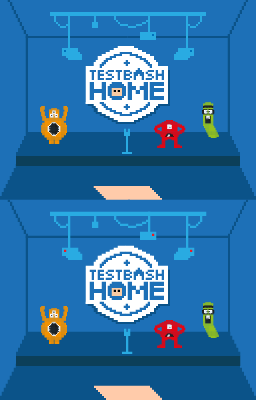
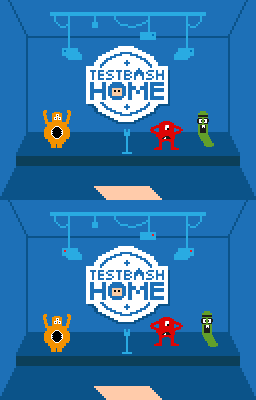
Updated images, positions and backgrounds

diff --git a/data.js b/data.js
@@ -16,7 +16,7 @@ module.exports.ROOMS = {
         frames: 2,
         frameDelay: 30,
         avatarScale: 3,
-        pageBg: "#29ABE2",
+        pageBg: "#235385",
         area: "tbh_venue_areas.png",
         tint: "#fdeac8",
         bubblesY: 44,
@@ -31,47 +31,17 @@ module.exports.ROOMS = {
         frames: 2,
         frameDelay: 30,
         avatarScale: 3,
-        pageBg: "#1566B0",
+        pageBg: "#235385",
         area: "tbh_lobby_areas.png",
         tint: "#fdeac8",
         bubblesY: 44,
         spawn: [14, 84, 119, 92],
         areaColors: {
             hff00ff: { cmd: "enter", room: "outside", label: "Go outside", point: [62, 90], enterPoint: [60, 84], obstacle: false },
-            h00ff00: { cmd: "enter", room: "auditorium", label: "Go to auditorium", point: [10, 85], enterPoint: [62, 91], obstacle: false },
-            h00ffff: { cmd: "enter", room: "club", label: "Go to The Club", point: [40, 74], enterPoint: [62, 91], obstacle: false },
-            hffff00: { cmd: "enter", room: "slack", label: "Go to MoT slack", point: [88, 70], enterPoint: [62, 91], obstacle: false }
-        }
-    },
-
-    auditorium: {
-        bg: "tbh_auditorium_bg.png",
-        frames: 2,
-        frameDelay: 30,
-        avatarScale: 3,
-        pageBg: "#1D70B7",
-        area: "tbh_auditorium_areas.png",
-        tint: "#fdeac8",
-        bubblesY: 44,
-        spawn: [14, 84, 119, 92],
-        areaColors: {
-            hff00ff: { cmd: "enter", room: "lobby", label: "Enter lobby", point: [62, 91], enterPoint: [10, 85], obstacle: false }
-        }
-    },
-
-    club: {
-        bg: "tbh_club_bg.png",
-        frames: 2,
-        frameDelay: 30,
-        avatarScale: 3,
-        pageBg: "#009245",
-        area: "tbh_club_areas.png",
-        tint: "#fdeac8",
-        bubblesY: 44,
-        spawn: [14, 84, 119, 92],
-        areaColors: {
-            hff00ff: { cmd: "enter", room: "lobby", label: "Enter TestBash Home", point: [62, 91], enterPoint: [42, 74], obstacle: false },
-            h00ff00: { cmd: "text", txt: "Share your thoughts on\nThe Ministry of Testing Club\nClick to open", align: "left", lines: 3, url: "https://club.ministryoftesting.com/", label: "Join the Club", point: [88, 78], obstacle: true }
+            h00ff00: { cmd: "enter", room: "slack", label: "Go to MoT Slack", point: [10, 85], enterPoint: [115, 91], obstacle: false },
+            h00ffff: { cmd: "enter", room: "auditorium", label: "Go to the Auditorium", point: [40, 74], enterPoint: [62, 91], obstacle: false },
+            hffff00: { cmd: "enter", room: "recordings", label: "Go to TestBash Home recordings", point: [88, 75], enterPoint: [78, 91], obstacle: false },
+            hff0000: { cmd: "enter", room: "club", label: "Go to The Club", point: [115, 85], enterPoint: [10, 91], obstacle: false }
         }
     },
 
@@ -80,104 +50,63 @@ module.exports.ROOMS = {
         frames: 2,
         frameDelay: 30,
         avatarScale: 3,
-        pageBg: "#93278F",
+        pageBg: "#69286E",
         area: "tbh_slack_areas.png",
         tint: "#fdeac8",
         bubblesY: 44,
         spawn: [14, 84, 119, 92],
         areaColors: {
-            hff00ff: { cmd: "enter", room: "lobby", label: "Enter TestBash Home", point: [62, 91], enterPoint: [88, 74], obstacle: false },
+            hff00ff: { cmd: "enter", room: "lobby", label: "Enter TestBash Home", point: [115, 91], enterPoint: [10, 85], obstacle: false },
             h00ff00: { cmd: "text", txt: "Chat with others on\nThe Ministry of Testing Slack\nClick to open", align: "left", lines: 3, url: "https://ministryoftesting.slack.com/", label: "Chat on MoT Slack", point: [30, 78], obstacle: true }
         }
+    },
+
+    auditorium: {
+        bg: "tbh_auditorium_bg.png",
+        frames: 2,
+        frameDelay: 30,
+        avatarScale: 3,
+        pageBg: "#235385",
+        area: "tbh_auditorium_areas.png",
+        tint: "#fdeac8",
+        bubblesY: 44,
+        spawn: [14, 84, 119, 92],
+        areaColors: {
+            hff00ff: { cmd: "enter", room: "lobby", label: "Enter lobby", point: [62, 91], enterPoint: [40, 74], obstacle: false },
+            h00ff00: { cmd: "text", txt: "Check out what's happening in TestBash Home right now\nClick to open", align: "left", lines: 3, url: "https://club.ministryoftesting.com/", label: "Watch TestBash Home live", point: [70, 84], obstacle: true }
+        }
+    },
+    
+    recordings: {
+        bg: "tbh_recordings_bg.png",
+        frames: 2,
+        frameDelay: 30,
+        avatarScale: 3,
+        pageBg: "#235385",
+        area: "tbh_recordings_areas.png",
+        tint: "#fdeac8",
+        bubblesY: 44,
+        spawn: [14, 84, 119, 92],
+        areaColors: {
+            hff00ff: { cmd: "enter", room: "lobby", label: "Enter TestBash Home", point: [78, 91], enterPoint: [88, 75], obstacle: false },
+            h00ff00: { cmd: "text", txt: "Check out recordings for TestBash Home\nClick to open", align: "left", lines: 3, url: "https://ministryoftesting.slack.com/", label: "Check out TestBash Home recordings", point: [30, 78], obstacle: true }
+        }
+    },
+
+    club: {
+        bg: "tbh_club_bg.png",
+        frames: 2,
+        frameDelay: 30,
+        avatarScale: 3,
+        pageBg: "#30703A",
+        area: "tbh_club_areas.png",
+        tint: "#fdeac8",
+        bubblesY: 44,
+        spawn: [14, 84, 119, 92],
+        areaColors: {
+            hff00ff: { cmd: "enter", room: "lobby", label: "Enter TestBash Home", point: [10, 91], enterPoint: [115, 85], obstacle: false },
+            h00ff00: { cmd: "text", txt: "Share your thoughts on\nThe Ministry of Testing Club\nClick to open", align: "left", lines: 3, url: "https://club.ministryoftesting.com/", label: "Join the Club", point: [88, 78], obstacle: true }
+        }
     }
-
-    // likelike: {
-    //     //the background graphics, it can be a spreadsheet
-    //     bg: "likelike-bg.png",
-    //     //if spreadsheet frames
-    //     frames: 2,
-    //     //if animated, animation speed in refreshes (frame dependent)
-    //     frameDelay: 30,
-    //     //normally 2, avatars can be scaled to simulate camera distance
-    //     avatarScale: 2,
-    //     //a shade to tint the avatars to simulate light color, #FFFFFF normal
-    //     tint: "#fa84af",
-    //     //the html body color can be changed
-    //     pageBg: "#6a2545",
-    //     //minimum height for the speech bubbles
-    //     bubblesY: 50,
-    //     //if spawning directly in this room, top left and bottom right point defining the rectangular spawn area (random within it)
-    //     spawn: [84, 92, 121, 99],
-    //     //graphics with active areas Sierra Online adventures style
-    //     //color coded as below, #FFFFFF is walkable, transparent is obstacle
-    //     area: "likelike-areas.png",
-    //     //each color can trigger a command, the destination needs to be reached first
-    //     //the "h" is replaced by # to identify color
-    //     areaColors: {
-    //         //enter command changes room
-    //         //room: id of the room to enter
-    //         //label: what to display on rollover
-    //         //point: where to walk after click
-    //         //enterPoint: where to spawn in the next room
-    //         //obstacle: is the area walkable
-    //         hffec27: { cmd: "enter", room: "likelikeBackyard", label: "Backyard", point: [6, 88], enterPoint: [116, 69], obstacle: false },
-    //         h00e436: { cmd: "enter", room: "likelikeOutside", label: "Street", point: [102, 98], enterPoint: [103, 84], obstacle: false },
-    //         //text displays a text only on the client
-    //         //txt: the text
-    //         //align: center or left
-    //         //lines: manual number of lines, p5 doesn't understand line breaks
-    //         //url: uptionally open a page on click
-    //         hff004d: { cmd: "text", txt: "OUR DAMNED MACHINE\nby Sophie Houlden, 2018\nClick on the frame to start.\nWASD or Arrow keys to move.", align: "left", lines: 4, url: "https://sophieh.itch.io/our-damned-machine", label: "A dystopian game", point: [34, 78], obstacle: true },
-    //         hff77a8: { cmd: "text", txt: "CONTINENTAL DRIFT\nby Cecile Richard, 2019\nWASD or Arrow keys to move.\nClick to play.", align: "left", lines: 4, url: "https://haraiva.itch.io/continental-drift", label: "An intimate game", point: [64, 78], obstacle: true },
-    //         hffccaa: { cmd: "text", txt: "SPIRAL HOUSE\nby Withering Systems (Everest Pipkin and Loren Schmidt), 2018\nWASD or Arrow keys to move.\nClick to play.", align: "left", lines: 5, url: "https://withering-systems.itch.io/spiral-house", label: "An abstract game", point: [92, 78], obstacle: true },
-    //         hab5236: { cmd: "text", txt: "ALMANAC OF GIRLSWAMPWAR TERRITORY\nby porpentine charity heartscape, 2018\nWASD or Arrow keys to move.\nClick to play.", align: "left", lines: 5, url: "https://porpentine.itch.io/almanac", label: "A mutant game", point: [110, 82], obstacle: true },
-    //         h83769c: { cmd: "text", txt: "MOSS AS TEXTURE AS SPACE\nFOLDING ONTO ITSELF\nby Pol Clarissou, 2019\nWASD or Arrow keys to move.\nClick to play.", align: "left", lines: 5, url: "https://polclarissou.itch.io/moss-as-texture-as-space-folding-onto-itself", label: "A mossy game", point: [16, 82], obstacle: true },
-    //         hffa300: { cmd: "text", txt: "LIKELIKE\npresents:\nAn Itsy Bitsy Crisis\nCatastrophes and Rebirths in Bitsy", align: "center", lines: 4, label: "Wall text", point: [119, 95], obstacle: false }
-    //     },
-    //     //array of sprites to create in the room
-    //     //sprites are rendered according to depth sort so they can appear above the avatars unlike the background
-    //     //they can be animated, mouse reactive and trigger commands like the areas above
-    //     sprites: [
-    //         //sprite spreadsheets only 1 row ok?
-    //         { file: "top-cabinet.png", frames: 1, frameDelay: 1, position: [24, 89], label: "A time traveling game", command: { cmd: "text", txt: "THE LAST HUMAN TOUCH\nby Cephalopodunk, 2018\nWASD or Arrow keys to move.\nClick to play.", align: "left", lines: 4, url: "https://cephalopodunk.itch.io/the-last-human-touch", label: "A time traveling game", point: [33, 92] } }
-    //     ]
-    // },
-
-    // likelikeOutside: {
-    //     bg: "likelikeOutside-bg.png",
-    //     frames: 2,
-    //     frameDelay: 30,
-    //     avatarScale: 2,
-    //     pageBg: "#ab5236",
-    //     area: "likelikeOutside-areas.png",
-    //     tint: "#fdeac8",
-    //     bubblesY: 44,
-    //     spawn: [14, 84, 119, 92],
-    //     areaColors: {
-    //         //h will be replaced by #
-    //         hff77a8: { cmd: "enter", room: "likelike", label: "Enter LIKELIKE", point: [100, 84], enterPoint: [104, 98], obstacle: false },
-    //     }
-    // },
-    // likelikeBackyard: {
-    //     bg: "likelike-backyard.png",
-    //     frames: 2,
-    //     frameDelay: 30,
-    //     avatarScale: 2,
-    //     area: "likelike-backyard-areas.png",
-    //     tint: "#fdbe4e",
-    //     pageBg: "#413830",
-    //     bubblesY: 20,
-    //     spawn: [38, 63, 108, 83],
-    //     areaColors: {
-    //         //h will be replaced by #
-    //         hff77a8: { cmd: "enter", room: "likelike", label: "Enter LIKELIKE", point: [119, 69], enterPoint: [5, 88], obstacle: false },
-    //     },
-    //     sprites: [
-    //         //spreadsheets only 1 row ok?
-    //         { file: "harvey.png", frames: 2, frameDelay: 10, position: [102, 77], label: "Harvey", command: { cmd: "text", txt: "*You pet the dog*", align: "center", lines: 1, point: [101, 84] } },
-    //         { file: "likelike-backyard-chairs.png", position: [33, 44] },
-
-    //     ]
-    // }
     
 };

diff --git a/public/index.html b/public/index.html
@@ -2,30 +2,29 @@
 <html lang="en">
 
 <head>
-    <title>LIKELIKE Online</title>
+    <title>TestBash Home</title>
 
     <meta http-equiv="Content-Type" content="text/html; charset=UTF-8" />
 
-    <meta name="title" content="LIKELIKE Online" />
-    <meta name="description" content="The tiniest MMO / game art gallery" />
+    <meta name="title" content="TestBash Home" />
+    <meta name="description" content="Hangout with other Testers at TestBash Home" />
 
 
     <!-- SEO / social media-->
-    <meta name="author" content="Molleindustria" />
-    <meta name="copyright" content="Molleindustria" />
-    <meta name="robots" content="index, follow" />
-    <meta name="description" content="The tiniest MMORPG. Choose an avatar and hang out with your friends in a virtual version of LIKELIKE a videogame gallery in Pittsburgh, PA." />
-    <meta name="keywords" content="Game,Art,Molleindustria,videogame" />
+    <meta name="author" content="Ministry of Testing" />
+    <meta name="copyright" content="Ministry of Testing" />
+    <meta name="description" content="Come hang out with fellow Testers at the virtual TestBash Home" />
+    <meta name="keywords" content="Testing,Software Testing,Ministry of Testing" />
 
-    <meta property="og:image" content="https://molleindustria.org/images/likelikeOnline.png" />
-    <meta property="og:title" content="LIKELIKE Online" />
-    <meta property="og:description" content="Radical Games Against the Tyranny of Entertainment." />
+    <meta property="og:image" content="https://d2h1nbmw1jjnl.cloudfront.net/events/og_images/000/000/132/original/TestBash_Home_2020_OPENGRAPH.png?1585818955">
+    <meta property="og:title" content="TestBash Home" />
+    <meta property="og:description" content="Come hang out with fellow Testers at the virtual TestBash Home" />
 
     <meta name="twitter:card" content="summary" />
-    <meta name="twitter:site" content="@likelikearcade" />
-    <meta name="twitter:title" content="LIKELIKE Online" />
-    <meta name="twitter:description" content="The tiniest MMORPG. Choose an avatar and hang out with your friends in a virtual version of LIKELIKE a videogame gallery in Pittsburgh, PA" />
-    <meta name="twitter:image" content="https://molleindustria.org/images/likelikeOnline.png" />
+    <meta name="twitter:site" content="@ministryoftest" />
+    <meta name="twitter:title" content="TestBash Home" />
+    <meta name="twitter:description" content="Come hang out with fellow Testers at the virtual TestBash Home" />
+    <meta name="twitter:image" content="https://pbs.twimg.com/profile_banners/368357474/1477566753/1500x500" />
 
     <!-- This is a standard p5.js index, NOTE the p5.dom.min.js -->
     <script src='https://cdnjs.cloudflare.com/ajax/libs/socket.io/2.3.0/socket.io.js'></script>
